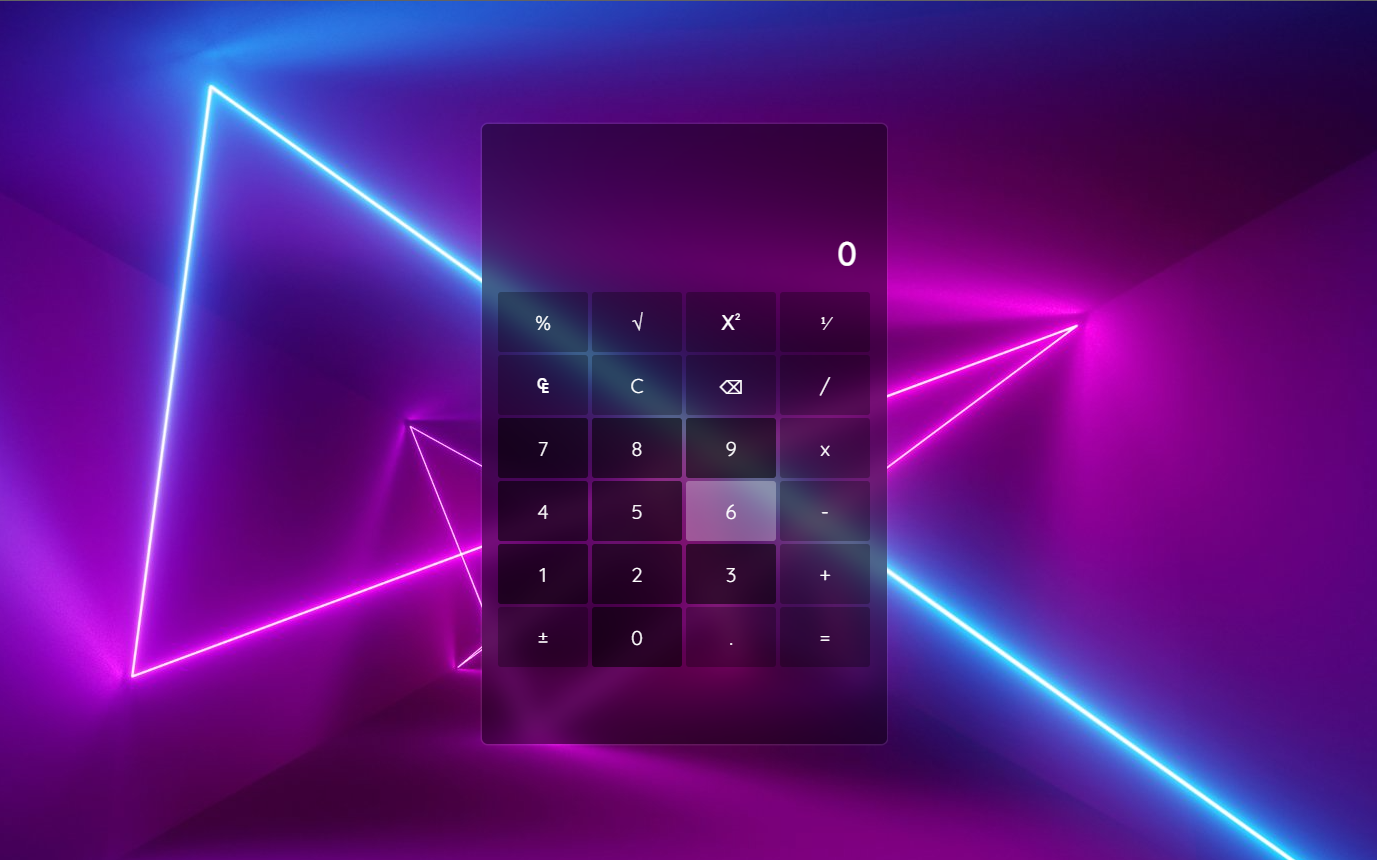
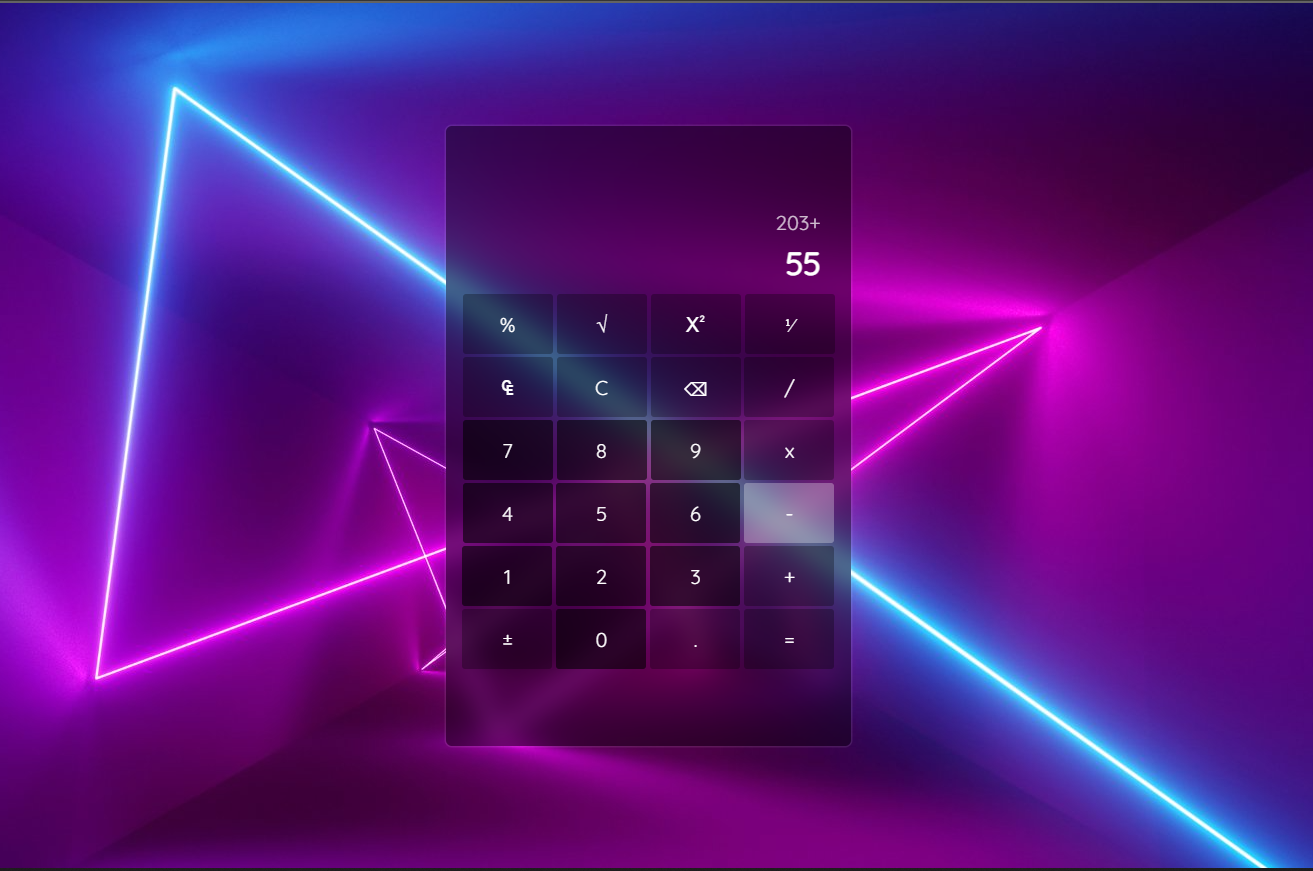
beta

Changed region(s): [[0.0, 0.0, 1.0, 1.0], [0.0, 0.5442, 0.0312, 0.6349], [0.1874, 0.8465, 0.2186, 0.907]]

diff --git a/script.js b/script.js
@@ -14,51 +14,102 @@ const specialKeys =
 let operation = '',
     pendentOperation = false
 
-const clearAll = () => {
-    cacheNumber.textContent = ''
-    currentNumber.textContent = '0'
-    operation = ''
-    pendentOperation = false
+const clearNum = () => {
+    let value = currentNumber.textContent
+    currentNumber.textContent = value.substring(0, value.length - 1)
 }
 
-const operationResult = simble => {
+const clearAll = entry => {
+    if (entry == "C") {
+        cacheNumber.textContent = ''
+        currentNumber.textContent = '0'
+        operation = ''
+        pendentOperation = false
+    }
+    if (entry = "₠") {
+        currentNumber.textContent = '0'
+    }
+
+}
+
+const setAccount = simble => {
     cacheNumber.textContent += currentNumber.textContent + simble
     operation += currentNumber.textContent + simble
     currentNumber.textContent = ''
     pendentOperation = true
 }
 
+const powCalc = () => {
+    currentNumber.textContent = Math.pow(currentNumber.textContent, 2)
+}
+
+const fractCalc = () => {
+    currentNumber.textContent = (1 / currentNumber.textContent).toFixed(4)
+}
+
+const parseNegative = value => {
+    if (value.substr(0, 1) == "-") currentNumber.textContent = value.substring(1)
+    else currentNumber.textContent = "-" + value
+}
+
 // Função pra adicionar elemento na tela
+const addNumber = number => {
+    pendentOperation = false
+    if (currentNumber.textContent == '0') currentNumber.textContent = number
+    else currentNumber.textContent += number
+}
+
+const resultOfAll = () => {
+    operation += currentNumber.textContent
+
+    if ((parseInt(eval(operation)) % 2 != 0 && operation.includes("/")) ||
+        (parseInt(eval(operation)) % 2 != 0 && operation.includes("-")) ||
+        (parseInt(eval(operation)) % 2 != 0 && operation.includes("*"))) {
+
+        currentNumber.textContent = eval(operation).toFixed(2)
+    }
+
+    else currentNumber.textContent = eval(operation)
+    cacheNumber.textContent = ''
+    operation = ''
+}
+
+window.addEventListener('keypress', ({ key }) => {
+    let validate = pendentOperation == false && currentNumber.textContent != '0'
+
+    if (key == "+" && validate) setAccount("+")
+    if (key == "-" && validate) setAccount("-")
+    if (key == "*" && validate) setAccount("*")
+    if (key == "/" && validate) setAccount("/")
+
+    if (parseInt(key) >= 0 && parseInt(key) <= 9) addNumber(key)
+    if (key == "Enter") resultOfAll()
+    if (key == '') clearAll("C")
+})
+
 buttons.forEach(button => {
-
     button.addEventListener('click', () => {
-
-        if (!specialKeys.includes(button.textContent)) {
-            pendentOperation = false
-            if (currentNumber.textContent == '0') currentNumber.textContent = button.textContent
-            else currentNumber.textContent += button.textContent
-        }
+        if (!specialKeys.includes(button.textContent)) { addNumber(button.textContent) }
 
         if (specialKeys.includes(button.textContent)) {
             let validate = pendentOperation == false && currentNumber.textContent != '0'
 
-            if (button.textContent == "+" && validate) operationResult('+')
-            if (button.textContent == "-" && validate) operationResult('-')
-            if (button.textContent == "x" && validate) operationResult('*')
-            if (button.textContent == "/" && validate) operationResult('/')
-            if (button.textContent == "C" || button.textContent == "₠") clearAll()
+            if (button.textContent == "+" && validate) setAccount('+')
+            if (button.textContent == "-" && validate) setAccount('-')
+            if (button.textContent == "x" && validate) setAccount('*')
+            if (button.textContent == "/" && validate) setAccount('/')
 
-            if (button.textContent == "." && pendentOperation == false) {
-                currentNumber.textContent += '.'
-            }
+            if (button.textContent == "Χ²" && validate) powCalc()
+            if (button.textContent == "⅟" && validate) fractCalc()
 
-            if (button.textContent == "=" && operation != "" && pendentOperation == false) {
-                operation += currentNumber.textContent
-                currentNumber.textContent = eval(operation)
-                cacheNumber.textContent = ''
-                operation = ''
-            }
+            if (button.textContent == "⌫" && validate) clearNum()
+            if (button.textContent == "C") clearAll("C")
+            if (button.textContent == "₠") clearAll("₠")
+
+            if (button.textContent == "." && pendentOperation == false) currentNumber.textContent += '.'
+            if (button.textContent == "=" && operation != "" && pendentOperation == false) resultOfAll()
+            if (button.textContent == "±" && validate) parseNegative(currentNumber.textContent)
         }
-    })
 
+    })
 })

diff --git a/style.css b/style.css
@@ -23,10 +23,10 @@ div.content {
     background: #00000069;
     backdrop-filter: blur(8px);
     border-radius: 4px;
-    width: 250px;
-    min-width: 250px;
-    height: auto;
-    padding: 50px 10px;
+    width: 300px;
+    min-width: 300px;
+    height: 400px;
+    padding: 40px 10px;
     box-shadow: 0px 0px 0px 1px #ffffff17;
 }
 
@@ -36,21 +36,21 @@ div.operationScreen {
     align-items: flex-end;
     flex-wrap: nowrap;
     height: 60px;
+    padding: 0 20px 10px 0;
     width: auto;
-    padding: 0 10px 0 0;
     overflow-x: auto;
     color: #ffffff;
-    justify-content: space-evenly;
+    justify-content: space-between;
 }
 
 div.operationScreen p {
     color: rgba(255, 255, 255, 0.735);
-    font-size: 10pt;
+    font-size: 12pt;
 }
 
 div.operationScreen h2 {
     color: white;
-    font-size: 16pt;
+    font-size: 24pt;
 }
 
 section.grade {
@@ -62,20 +62,21 @@ section.grade {
     flex-wrap: wrap;
     flex-direction: row;
     align-content: center;
-    justify-content: space-between;
+    justify-content: space-evenly;
     margin-top: 1px;
 }
 
 button.button {
     border: none;
     background: #0000004a;
-    height: 40px;
-    width: 60px;
-    min-height: 40px;
-    min-width: 60px;
+    height: 50px;
+    width: 70px;
+    min-height: 50px;
+    min-width: 70px;
     margin: 1px;
     border-radius: 2px;
     color: white;
+    font-size: 12pt;
 }
 
 .numbers {

diff --git a/README.md b/README.md
@@ -9,7 +9,10 @@ Linguagens utilizadas:
 - JavaScript.
 
 ## 
+<div align='center'>
+<img src="https://github.com/YoungC0DE/calculadoraWeb/blob/main/Images/forGit.png" width="300">
 
 Acesse por aqui: [CalculadoraWeb](https://youngc0de.github.io/calculadoraWeb/).
 
 **Projeto ainda em desenvolvimento**
+</div>
